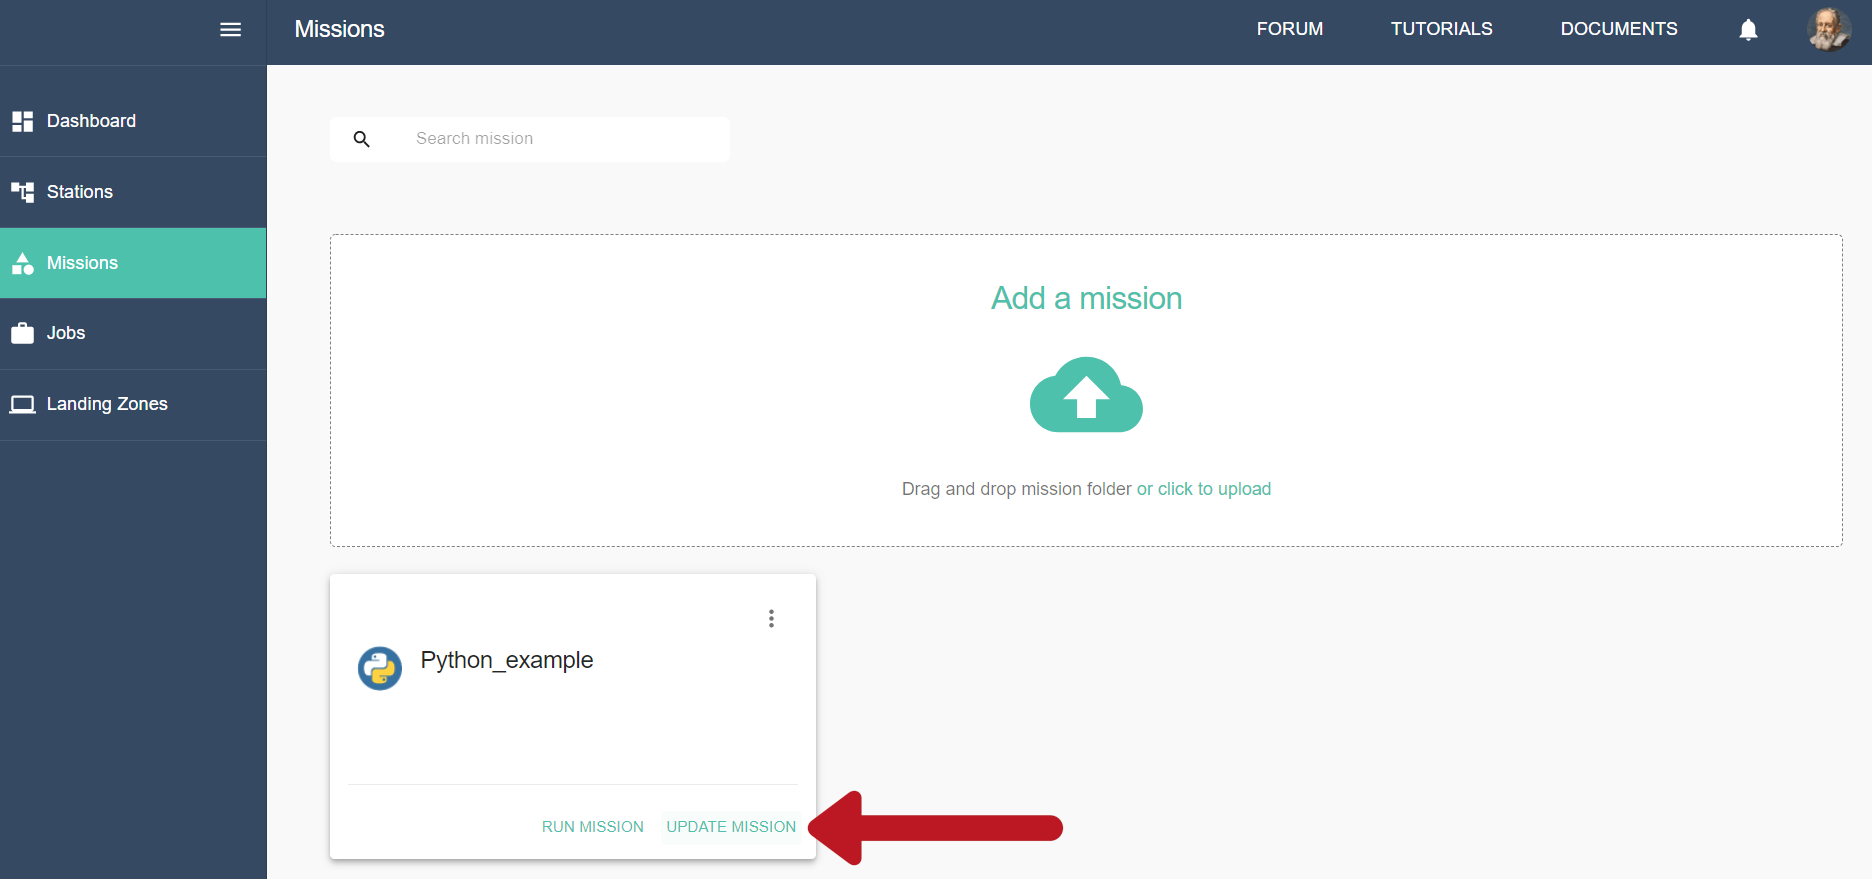
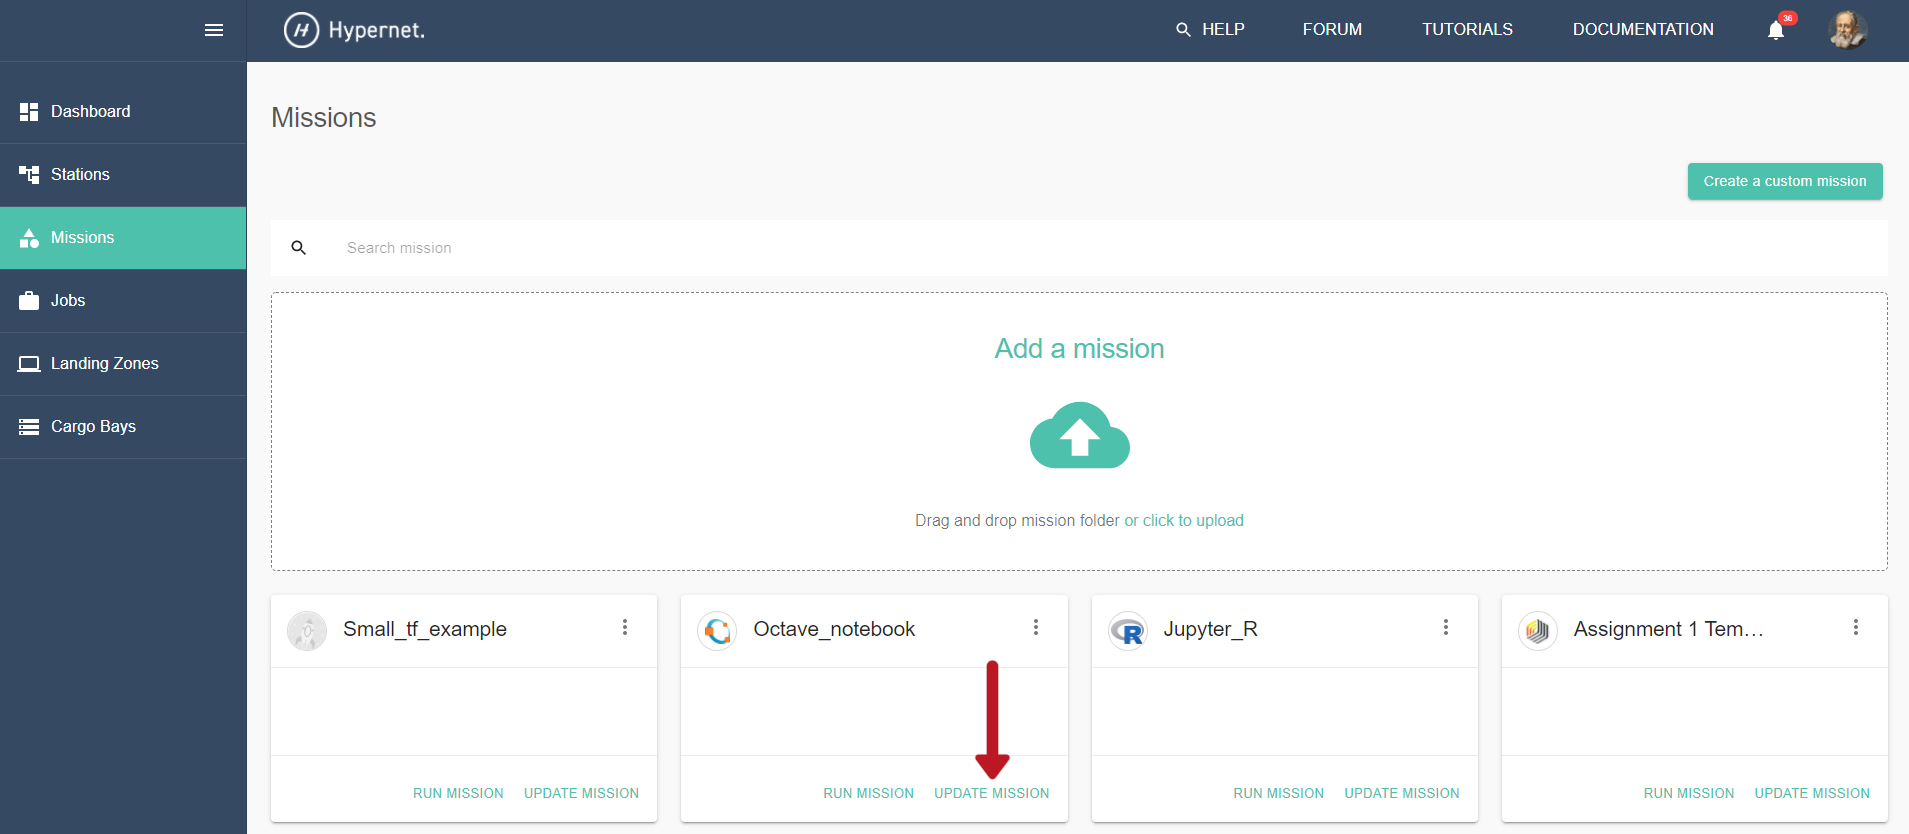
update to missions and added cargo bays

diff --git a/docs/src/cargobays.rst b/docs/src/cargobays.rst
@@ -1,0 +1,68 @@
+.. _cargobays:
+
+Cargo Bays Guide
+===============
+
+Cargo Bays are a Galileo feature that allow users to authenticate a third-party storage solution against their Galileo account. Once a Cargo Bay is established, it can be used in conjunction with the Missions feature; files and results belonging to a Mission can be configured to be stored in a particular Cargo Bay which can greatly help when the need arises to upload or download large amounts of data. Deleting a a Cargo Bay only removes the authentication credentials Galileo uses to communicate with the storage provider, it does not delete the data that has been stored there. 
+
+Creating a Cargo Bay 
+--------------------------------------
+
+A Cargo Bay can be created by first clickingon the Cargo Bays tab in the UI Dashboard. 
+
+.. image:: images/cargo_bays_tab.png
+
+Next, click the 'Add Cargo Bay' button in the upper right corner of the screen. 
+
+.. image:: images/cargo_bays_create_button.png
+
+This will bring up a configuration window. Here, you must select the 3rd party storage solution you would like to connect to your Galileo Account. 
+
+.. image:: images/cargo_bays_select_provider.png
+
+Dropbox
+~~~~~~~~
+
+To connect your Dropbox account to Galileo, select the Dropbox option and and hit the "Dropbox Authentication" button. 
+
+.. image:: images/cargo_bays_select_dropbox.png
+
+If you have never logged into your Dropbox in the current webbrowser, you will be redirected to the Dropbox login page. Once you give Galileo permission to access your Dropbox account, you will be brought back to Galileo. Next, provide a name for your Dropbox Cargo Bay, set the permission level (read and write permission is required for results to be written back to your Dropbox account), and optionally provide a description so you remember what the Cargo Bay was for. 
+
+.. image:: images/cargo_bays_name_dropbox.png
+
+The final step is to set your root folder for the Cargo Bay. This folder will set the highest folder access level that Missions will have with they refer to this Dropbox Cargo Bay. You must check the acknowledgment box before you can complete your setup. 
+
+.. image:: images/cargo_bays_dropbox_set_root.png
+
+Once you have completed the setup, you will see your Dropbox Cargo Bay show up with the name and description you provided. The number of Missions that reference this Cargo Bay will also be displayed. 
+
+.. image:: images/cargo_bays_dropbox_final.png
+
+NOTE: Deleting a Dropbox Cargo Bay does not delete data in Dropbox, it only removes Galileo's access to that Cargo Bay. 
+
+Tardigrade
+~~~~~~~~~~
+
+`Tardigrade <https://tardigrade.io/>`_ is a secure, decentralized, object storage provider. Using Tardigrade with Galileo requires that you first create an account in one of their three availability regions and configure an initial Tardigrade Project. 
+
+Once you have an active Tardigrade Project, select the Storj option, this will bring up the fields you must enter to connect your Tardigrade bucket to Galileo. 
+
+.. image:: images/cargo_bays_select_storj.png
+
+The "API Key" field refers to the API key associated with the Tardigrade Project you are using. If you want to point to an existing bucket, enter that bucket name in the "Bucket Name" field and enter that buckets encryption phrase into the "Encryption Passphrase" field. If you do not have an existing bucket, you can enter an arbitrary name and encryption phrase and Galileo will create a new bucket for you. WARNING: If you do not save your encryption phrase, we cannot recover it for you. 
+
+Once you've created the Storj-based Cargo Bay, you will see it appear in your Cargo Bays tab. The number of Missions referencing this Cargo Bay will be displayed here. 
+
+.. image:: images/cargo_bays_storj_final.png
+
+If you toggle on "Use Storj Serialized Access", you must generate a public URL from the Tardigrade Uplink CLI tool. See the `Tardigrade documentation <https://documentation.tardigrade.io/getting-started/sharing-your-first-object/generate-access>`_ for generating a sharing link. 
+
+Associating a Cargo Bay with a Mission
+---------------------------------------
+
+Once you have successfully added a Cargo Bay to your Galileo account, you can use it as a data source/sink for new Missions. This is done as the final step of configuring your Mission (see the `Missions Guide <missions.html>`_ for more information on setting up a new Mission).
+
+.. image:: images/missions_wizard_4.png
+
+The "Default" storage option uses GCP Storage and is counted against your storage quota in the dashboard. Any data stored in your personal Cargo Bays is not counted against your storage quota. 

diff --git a/docs/src/missions.rst b/docs/src/missions.rst
@@ -26,6 +26,10 @@ Galileo supports many scripting languages (such as R, Python, Julia, and Stata) 
 .. image:: images/missions_select_framework.png
 
 After you made your selection, follow the prompt to completion. 
+
+.. image:: images/missions_wizard_1.png
+
+In step 4, you can select a `Cargo Bay <cargobays.html>`_ to host your Mission data from or to point your Mission at pre-existing data you may already have stored in a third-party provider. 
  
 Adding and Removing Files 
 --------------------------
@@ -48,27 +52,26 @@ To delete a file from a Mission, first select the file you wish to remove by cli
 
 After confirming the deletion, the file will be permanently removed. 
 
-Jobs and Job Results
----------------------
+Jobs Results and Job Resources 
+------------------------------
 
-The "Job Settings" tab allows you to set how many CPUs and the amount of RAM that jobs launched from this Mission will consume. In the screenshot below, the job launched from the Mission named "Python_example" will use 2 CPUs and 1280 MB of RAM. 
+Each job instance launched from a Mission, buy hitting the run button in the upper right, can be monitored from the Jobs table on that Mission's home page. Past results can be downloaded from completed jobs clicking expanding the "Action" column for that job. 
 
-.. image:: images/missions_job_settings.png
+.. image:: images/missions_job_download.png
 
-Once you have configured your Mission and Job Settings and all required input files have been added, run a job by clicking the "Run" button in the upper right. 
+When a job is in the "running" status, you can check the progress by querying the standard output (what would normally be printed to screen if you were running the job locally on your laptop) and the process logs (to confirm what processes were created by your job). You also have the option (depending on the system you deployed to) to pause the job, cancel the job (which will return any partial results), and kill the job (which will not return any results from the job). 
 
-.. image:: images/missions_run_button.png
+In order to set the amount of resources that a job uses (i.e. the number of CPUs, the amount of memory, and the number of GPUs), click the settings tab under the current Missio, then scroll down to the Job Resources block and enter the values you want.
 
-Then select the station you wish to deploy to. 
-
-.. image:: images/missions_select_station.png
-
-Check the job status and get past results for the current Mission by navigating to the "Jobs & Results" tab. 
-
-.. image:: images/missions_results.png
-
-When a job is in the "running" status, you can check the progress by querying the standard output (what would normally be printed to screen if you were running the job locally on your laptop) and the process logs (to confirm what processes were created by your job). You also have the option to pause the job, cancel the job (which will return any partial results), and kill the job (which will not return any results from the job). 
+.. image:: images/missions_settings.png
 
 A global view of all jobs, regardless of what Mission they were launched from, can be seen by clicking the jobs tab. 
 
 .. image:: images/jobs_tab.png
+
+Mission Collaborators
+---------------------
+
+Mission Owners (the user who initially creates a Mission) can invite collaborators to their Mission. Collaborators can have different permission levels: Admin, View Results, and View All. Admins can do everything the Mission Owner can do except delete the Mission. The "View All" permission allows a user to view in input files and and historical job results while the "View Results" permission only allows the collaborator to view historical job results for the Mission. Clicking  the "plus" button on the right-hand side of the Users table will prompt for the names of the collaborators to add to the Mission.
+
+.. image:: images/missions_collaborators.png

diff --git a/docs/src/security.rst b/docs/src/security.rst
@@ -20,14 +20,14 @@ The default storage provider used by Galileo for Mission input files and job
 results is GCP Storage (standard level). More info on the security profile of 
 GCP Storage can be found `here <https://cloud.google.com/storage/docs/storage-classes#standard>`_. 
 Users can choose to store input and result files on their own self-administered 
-object storage if they choose to do so and if Galileo already supports that 
-particular storage technology. In this bring-your-own-storage scenario, the 
-storage administrator has full control over the access and persistence of the 
-files consumed and generated by the Galileo platform for the Galileo accounts 
-targeting that resource as the storage destination. The Galileo web service 
-requires a user-provided API key to access non-default object storage. These 
-keys are stored in an encrypted format; access can be revoked by deactiving 
-the API key provided to Galileo. 
+object storage, via the Cargo Bays feature, if they choose to do so and if Galileo 
+already supports that particular storage technology. In this bring-your-own-storage 
+scenario, the storage administrator has full control over the access and 
+persistence of the files consumed and generated by the Galileo platform for 
+the Galileo accounts targeting that resource as the storage destination. The 
+Galileo web service requires a user-provided API key to access non-default object 
+storage. These keys are stored in an encrypted format; access can be revoked by deleting
+the associated Cargo Bay which removes the authentication credentials. 
 
 Compute
 ~~~~~~~
@@ -40,13 +40,15 @@ The LZ daemon is written in Python and the source code can be obtained and
 audited for security analysis purposes. 
 
 Alternatively, users can run on the default compute resources provided in the 
-communal Stations (the Linux and Windows Stations). Users are given access to 
-these default computational resources when their account is created. These 
-instances are sourced from `GCP <https://cloud.google.com/security/privacy/>`_ 
-Compute Engine, `AWS <https://cloud.google.com/security/privacy/>`_ EC2, and 
+communal Stations (the Linux and Windows Stations), or they can purchase privately
+provisioned LZ instances. Users are given access to complimentary default 
+computational resources when their account is created. Be aware that the default 
+computational resources run simultaneous workloads from multiple Galileo users in 
+containerized virtual environments. Provisioned Landing Zones, however, are private 
+to the user who purchased them. All instances are sourced from 
+`GCP <https://cloud.google.com/security/privacy/>`_ Compute Engine, 
+`AWS <https://cloud.google.com/security/privacy/>`_ EC2, and 
 `Azure <https://azure.microsoft.com/en-us/support/legal/>`_ Virtual Machines. 
-Be aware that the default computational resources run simultaneous workloads from 
-multiple Galileo users in containerized virtual environments.
 
 The LZ daemon communicates with the Galileo web service via TLS and HTTPS. The LZ 
 daemon must be run with sufficient permissions so as to create containers with the 

diff --git a/docs/src/index.rst b/docs/src/index.rst
@@ -7,7 +7,7 @@
 Introduction
 ==============
 
-Galileo is a hub for modeling, simulation, and data analysis that functions as an intuitive, easy-to-use portal to cloud and traditional, on-premises resources.  Galileo streamlines the utilization of computing infrastructure for `scientific computing applications <https://hypernetlabs.io/gettingstarted-old/#tutorials>`_, saving engineers and researchers (as well as IT teams) of all knowledge levels the time and frustration involved in setting up an adequate simulation or analysis pipeline.  The `Missions <missions.html>`_ feature in Galileo allows teams to collaborate efficiently on complex modeling and simulation projects by sharing input files and configuration parameters. `Stations <stations.html>`_ make it simple to administer computational resources by setting resource limits and quotas and have a built in queueing system. Additionally, Galileo lets users flexibly control roles and permissions, and easily track result histories of previous calculations.
+Galileo is a hub for modeling, simulation, and data analysis that functions as an intuitive, easy-to-use portal to cloud and traditional, on-premises resources.  Galileo streamlines the utilization of computing infrastructure for `scientific computing applications <https://hypernetlabs.io/gettingstarted/#tutorials>`_ (like datascience, machine learning, and simulation engineering), saving engineers and researchers (as well as IT teams) of all knowledge levels the time and frustration involved in setting up an adequate simulation or analysis pipeline.  The `Missions <missions.html>`_ feature in Galileo allows teams to collaborate efficiently on complex modeling and simulation projects by sharing input files and configuration parameters. `Stations <stations.html>`_ make it simple to administer computational resources by setting resource limits and quotas and have a built in queueing system. `Cargo Bays <cargobays.html>`_ allow users to deploy from and recieve result directly to their own storage solution, like `Dropbox <https://www.dropbox.com/>`_ or `Tardigrade <https://tardigrade.io/>`_. Additionally, Galileo lets users flexibly control roles and permissions, and easily track result histories of previous calculations.
 
 The Galileo :ref:`Landing Zone <landing_zone_main>` (LZ) deamon is a containerized daemon process that allows Galileo Station administrators to quickly and securely connect nearly any computational resource with an internet connection to their Galileo account. Once the LZ daemon is authenticated against a user's account, it must be attached to a Galileo Station for it to be utilized.
 
@@ -20,6 +20,7 @@ The Galileo `SDK <galileo_sdk.html>`_ allows users to interact with the Galileo 
     Security Overview <security.rst>
     Stations Guide <stations.rst>
     Missions Guide <missions.rst>
+	Cargo Bay Guide <cargobays.rst>
     Quickstart for Landing Zones <landing_zone_main.rst>
     Quickstart for Python SDK <galileo_sdk.rst>
     SDK References <references/index.rst>
